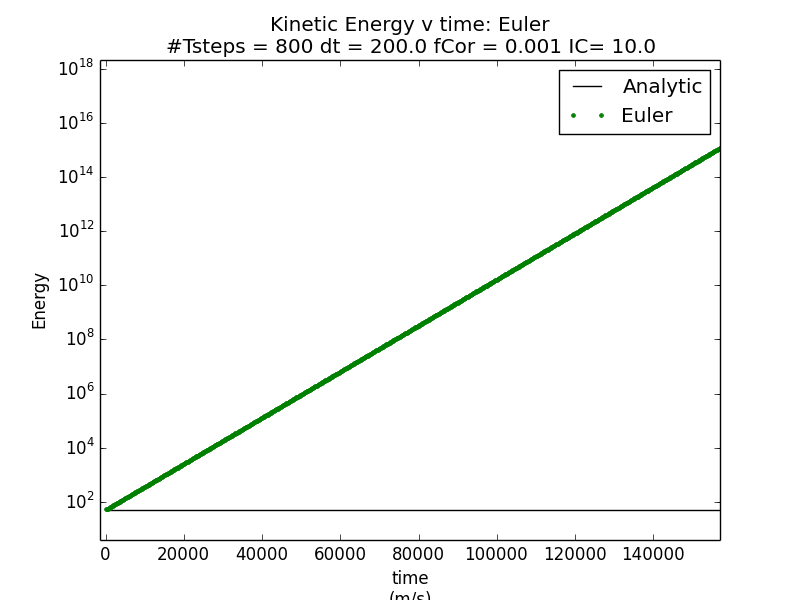
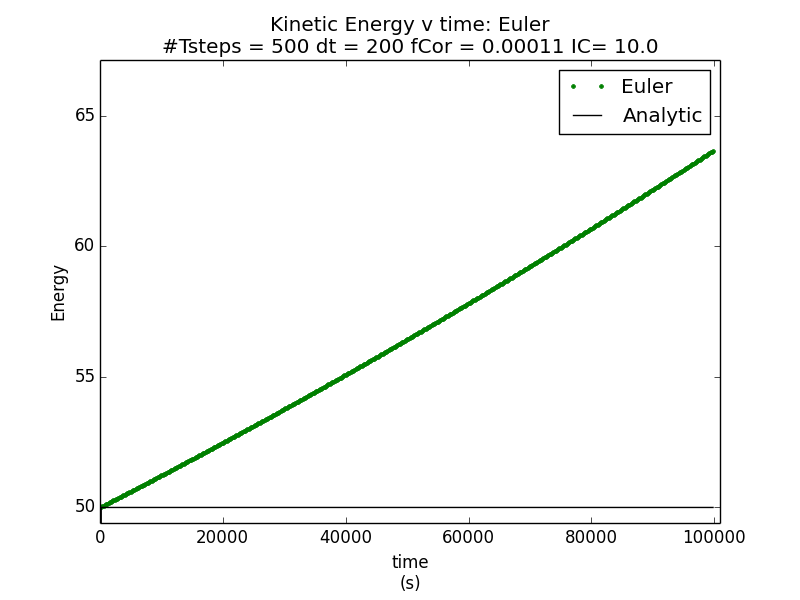
improved plotting and added plot pngs

diff --git a/num1/esm1.py b/num1/esm1.py
@@ -138,16 +138,17 @@ plt.close("all")
 
 
 ##plotting the estimated oscillation vs the actual
-plt.figure("Zonal Velocity v time: Leapfrog, Heun, Matsuno vs analytical")
-plt.title("Zonal Velocity v time:\nLeapfrog, Heun, Matsuno vs analytical\n#Tsteps = "
+plt.figure("Zonal Velocity v time: Euler, Leapfrog, Heun, Matsuno vs analytical")
+plt.title("Zonal Velocity v time:\nEuler, Leapfrog, Heun, Matsuno vs analytical\n#Tsteps = "
 	+ str(numberOfTimeSteps) + " dt = " + str(dt) + " fCor = " + str(frequency) + " IC= " + str(initCond))
 plt.xlabel("time\n(s)")
 plt.ylabel("u\n(m/s)")
-plt.plot(arr4funcAtDT[0], arr4funcAtDT[1], "k", label="Analytical")
-plt.plot(arr4funcAtDT[0], arr4funcAtDT[2], '.b', label="Euler")
-plt.plot(arr4funcAtDT[0], arr4funcAtDT[3], "xc", label="Leapfrog")
-plt.plot(arr4funcAtDT[0], arr4funcAtDT[4], ".m", label="Heun")
+plt.plot(arr4funcAtDT[0], arr4funcAtDT[2], '.g', label="Euler")
+plt.plot(arr4funcAtDT[0], arr4funcAtDT[4], "xr", label="Heun")
+plt.plot(arr4funcAtDT[0], arr4funcAtDT[3], ".c", label="Leapfrog")
 plt.plot(arr4funcAtDT[0], arr4funcAtDT[5], ".y", label="Matsuno")
+plt.plot(arr4funcAtDT[0], arr4funcAtDT[1], "k", label="Analytical")
+
 plt.legend()
 
 ##energy plots
@@ -165,16 +166,16 @@ plt.legend()
 plt.figure("Kinetic Energy v time: Euler")
 plt.title("Kinetic Energy v time: Euler\n#Tsteps = "
 	+ str(numberOfTimeSteps) + " dt = " + str(dt) + " fCor = " + str(frequency) + " IC= " + str(initCond))
-plt.xlabel("time\n(m/s)")
+plt.xlabel("time\n(s)")
 plt.ylabel("Energy")
-plt.semilogy(arr4funcAtDT[0], eulerEngArr,".g", label="Euler")
-plt.semilogy(arr4funcAtDT[0], engAnaArr, "k", label="Analytic")
+plt.plot(arr4funcAtDT[0], eulerEngArr,".g", label="Euler")
+plt.plot(arr4funcAtDT[0], engAnaArr, "k", label="Analytic")
 plt.legend()
 
 plt.figure("Kinetic Energy v time: Matsuno")
 plt.title("Kinetic Energy v time: Matsuno\n#Tsteps = "
 	+ str(numberOfTimeSteps) + " dt = " + str(dt) + " fCor = " + str(frequency) + " IC= " + str(initCond))
-plt.xlabel("time\n(m/s)")
+plt.xlabel("time\n(s)")
 plt.ylabel("Energy")
 plt.plot(arr4funcAtDT[0], matsunoEngArr,".b", label="Matsuno")
 plt.plot(arr4funcAtDT[0], engAnaArr, "k", label="Analytic")
@@ -243,13 +244,6 @@ plt.plot(leapFrogErrVdt, "xr", label="leapfrog")
 plt.plot(matsunoErrVdt, ".b", label="matsuno")
 plt.legend()
 
-#plt.figure("Err v dt: mat")
-#plt.title("Model error v Timestep\n#Tsteps = "
-#	+ str(numberOfTimeSteps) + " dt = " + str(dt) + " fCor = " + str(frequency) + " IC= " + str(initCond))
-#plt.xlabel("dt\n(x100)")
-#plt.ylabel("np.avg(Model's error array)")
-#plt.plot(matsunoErrVdt, "x", label="matsuno")
-#plt.legend()
 
 ##Don't forget to show 'em if you got 'em
 plt.show()
